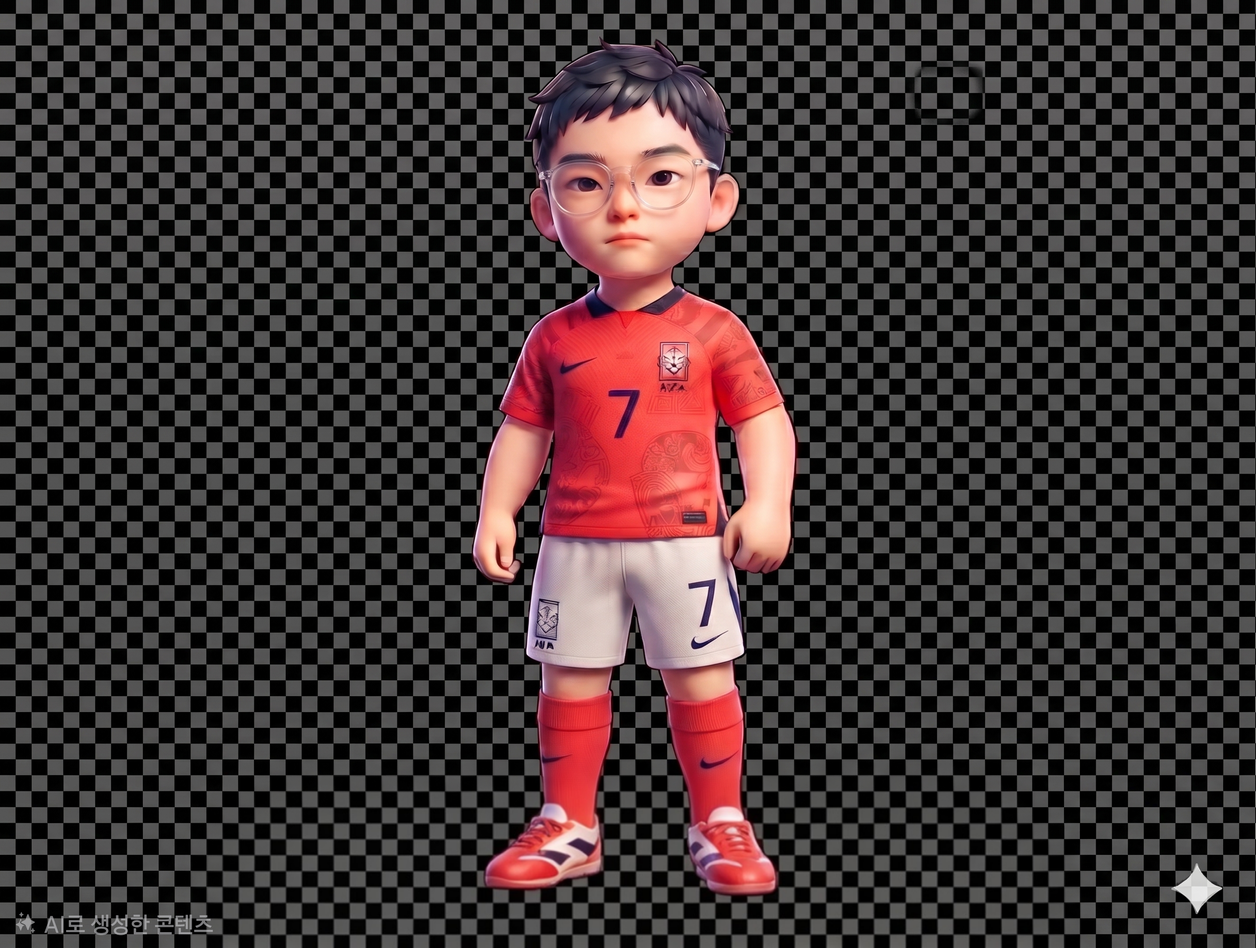
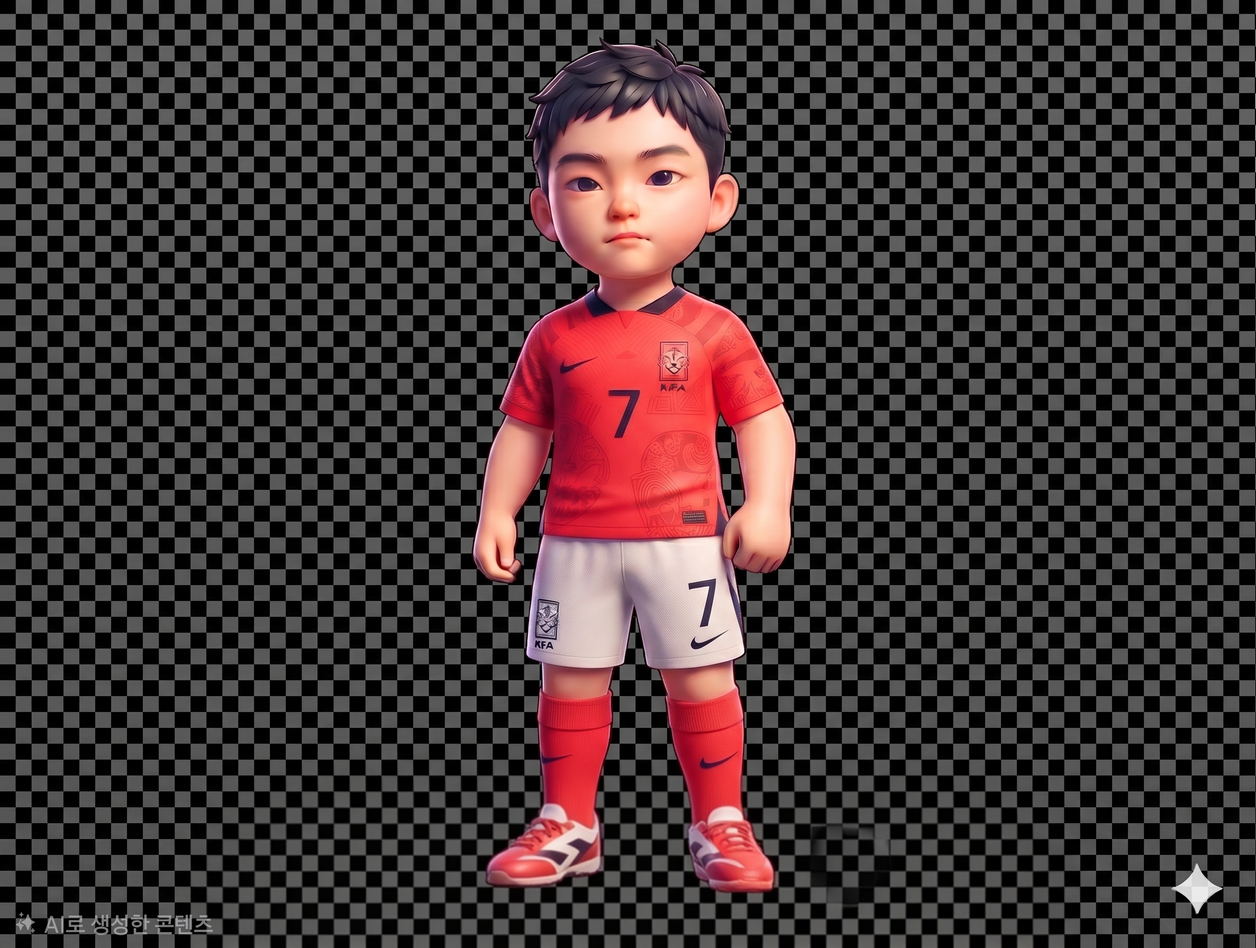
코디 4벌 추가(11~14)와 01·05 빠진 안경 사진 투명화, item.csv 우선도 칸 삭제
- 새로 올린 10장(01 안경 없음·05 안경, 11 노란 트랙슈트·12 경찰 제복·13 주황 티+흰 반바지·
  14 빨간 축구 유니폼 각 두 장)을 투명화해 img/outfit에 추가 → 14벌 모두 안경 유무 두 장씩
- 14번은 안경/안경 없음 파일 이름이 서로 바뀌어 있어 맞바꿈(img/roy_cloth, img/outfit 모두)
- item.csv: set_11~set_14 추가, 의미가 없어진 우선도 칸 삭제(코드는 칸이 없으면 기본 순서)
- game-content.md §26-5, img/outfit/readme.md 갱신

Claude-Session: https://claude.ai/code/session_01PVoUSgMKaLQypzz5QrRGr7

diff --git a/wardrobe.js b/wardrobe.js
@@ -2,8 +2,8 @@
 // 이로이 기본 사진: img/roy/roy_n_09.png(안경 미착용, 9살), roy_g_09.png(안경 착용, 9살) … 나이별로 두 자리 숫자.
 // 옷·아이템 그림: img/item/top_01_09.png(상의, 9살용), bot_01_09.png(하의), etc_01_09.png(기타) … — 끝의 _09는 몇 살 몸에 맞춘 그림인지
 //   ※ 옷 그림은 이로이 기본 사진과 "같은 크기의 투명 PNG"로, 입혀질 자리에 그려 둔다 — 그대로 위에 겹쳐서 입힌다.
-// 아이템 정보: 루트의 item.csv (id · 이름 · 설명 · 우선도 · 가격 · 효과) — 제목줄 이름으로 칸을 찾으므로 칸 순서는 바뀌어도 된다
-// 우선도: 1이 가장 위에 그려진다(1 > 2 > 3). 비워 두면 상의 1 · 하의 2 · 신발 3 · 기타 1
+// 아이템 정보: 루트의 item.csv (id · 이름 · 설명 · 가격 · 효과) — 제목줄 이름으로 칸을 찾으므로 칸 순서는 바뀌어도 된다
+// (선택) 낱개 옷을 다시 쓸 때 '우선도' 칸을 넣으면 1이 가장 위에 그려진다. 없으면 상의 1 · 하의 2 · 신발 3 · 기타 1
 // main.js의 state / applyEffect / renderStats / saveGame / logLine 등을 그대로 쓴다.
 
 const ROY_IMAGE_DIR = "img/roy/";

diff --git a/index.html b/index.html
@@ -233,8 +233,8 @@
   <script src="firebase-config.js?v=20261112f"></script>
   <script src="portraits.js?v=20261113p"></script>
   <script src="scenes.js?v=20261113c"></script>
-  <script src="wardrobe.js?v=20261114f"></script>
-  <script src="main.js?v=20261114f"></script>
+  <script src="wardrobe.js?v=20261114g"></script>
+  <script src="main.js?v=20261114g"></script>
   <script>
     if ("serviceWorker" in navigator) {
       window.addEventListener("load", () => navigator.serviceWorker.register("sw.js").catch(() => {}));

diff --git a/main.js b/main.js
@@ -342,7 +342,7 @@ async function loadStations(path) {
 }
 
 // index.html의 ?v= 자산 버전과 맞춰서 올릴 것 — 데이터 파일(JSON/CSV)도 브라우저 캐시에 걸리지 않게 함
-const DATA_VERSION = "20261114f";
+const DATA_VERSION = "20261114g";
 
 async function loadJSON(path) {
   const res = await fetch(`${path}?v=${DATA_VERSION}`);

diff --git a/img/outfit/readme.md b/img/outfit/readme.md
@@ -3,5 +3,5 @@
 - `img/roy_cloth/`의 코디 사진(원본)에서 배경 체크무늬와 반짝이 표시를 지우고 절반 크기(1187×896)로 줄인 것.
 - 파일 이름: `roy_{n|g}_{나이}_{코디번호}.png` — `item.csv`의 `set_{코디번호}`와 짝. 예: `set_08` → `roy_n_09_08.png` / `roy_g_09_08.png`
 - 코디를 입으면 기본 몸 사진 대신 이 사진을 통째로 보여준다. 방의 안경 상태에 맞는 사진을 먼저 쓰고, 없으면 다른 안경 사진, 그다음 가까운 나이 순.
-- 지금 01번은 안경 사진만, 05번은 안경 없는 사진만 있다.
+- 14번은 업로드 때 안경/안경 없음 이름이 서로 바뀌어 있어서 맞바꿨다(`img/roy_cloth/`도 같이).
 - 새 코디는 `img/roy_cloth/`에 원본을 올리면 같은 방법으로 투명화해서 여기에 넣는다.
